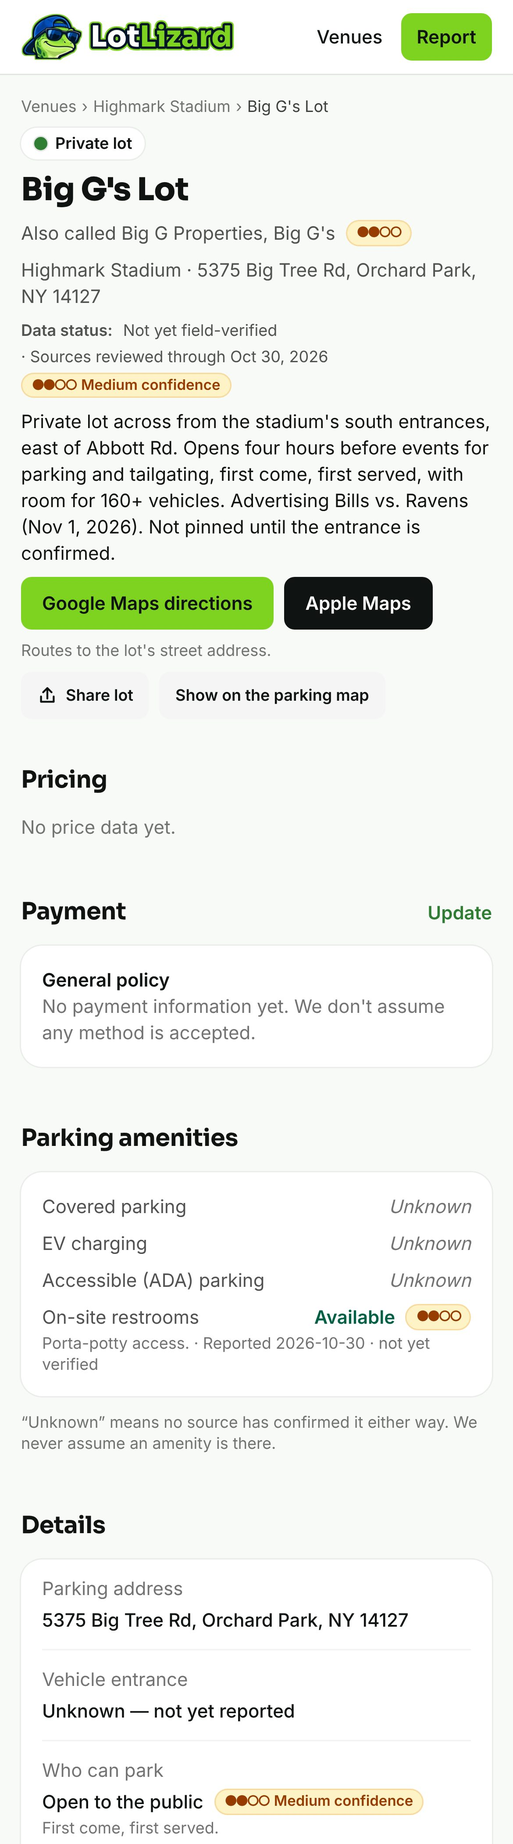
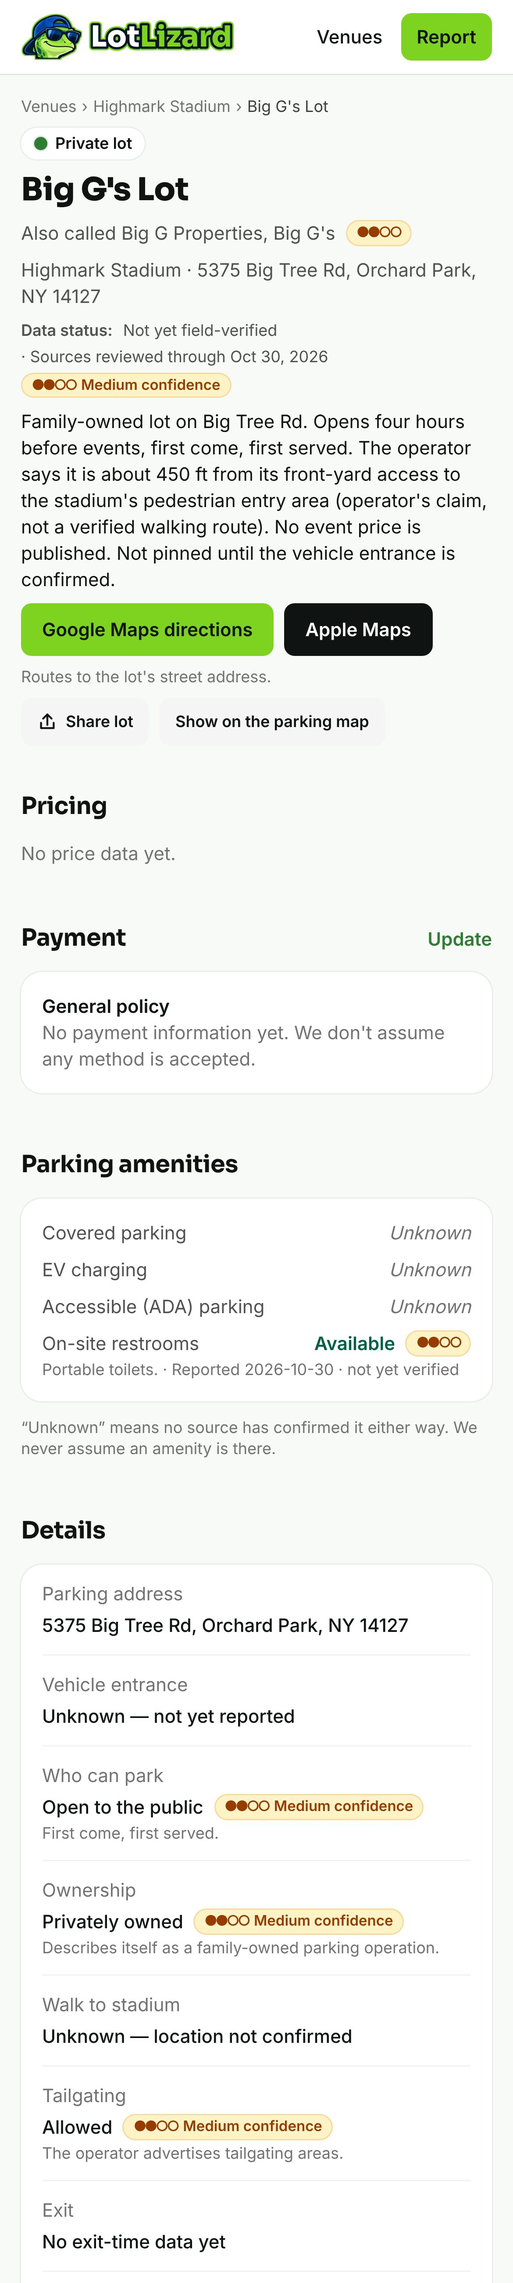
Verify Yellow Brick and Big G's from operator pages; drop unverified lots
Data-only. Yellow Brick (yellowbrickparkinglot.com home, /faq/, /about/)
and Big G Properties (biggpropertiesllc.com) were read directly on
2026-10-30; their sources are now marked as directly read operator claims.

- Yellow Brick: pass usable at any of its three lots for regular-size
  vehicles; RVs, oversized and overnight use Lot 2 (5241 Big Tree Rd);
  day-before arrivals 9 AM-4 PM; lots open 4 hours before events;
  guaranteed reservations, mobile or printed passes, sales final;
  tailgating rules; portable toilets; no EV charging or RV hookups;
  operator's 5-10 minute walk estimate labelled as such; "starting at $70"
  for Nov 1 kept as an event-level, not lot-specific, price. The 5265
  listing is renamed "Yellow Brick Parking" since the operator doesn't say
  which lot number that address is.
- Big G's: family-owned, first come first served, opens 4 hours before
  events, tailgating areas, portable toilets, lighting, two exit lanes
  turning right toward eastbound traffic and Route 219 (operator's claim),
  450 ft to the pedestrian entry area attributed to the operator. Dropped
  the snippet-only food truck and capacity claims.
- Removed from the public inventory and moved to the research list:
  Yellow Brick Lot 3 (5242 not established as Lot 3), Big Tree Lot (4297
  Abbott Rd; destination page only) and Bills Parking (5122 Big Tree Rd;
  Facebook page not retrievable).

Claude-Session: https://claude.ai/code/session_01Ro1oZBsP3w8Dk9SA5hbmnK

diff --git a/src/lib/data/facilities/highmark.ts b/src/lib/data/facilities/highmark.ts
@@ -93,8 +93,20 @@ function officialLot(
 }
 
 const YELLOW_BRICK_BOOKING = { url: "https://yellowbrickparkinglot.com/", partner: "Yellow Brick Parking", isAffiliate: false };
+const YELLOW_BRICK_PAYMENT: PaymentPolicy = {
+  accepted: [],
+  reportedAt: "2026-10-30",
+  notes: "Guaranteed reservations through the operator; mobile or printed passes accepted. All sales are final and nonrefundable. Accepted payment methods and on-arrival sales aren't stated.",
+  attribution: attr("medium", ["yellowbrick-faq", "yellowbrick-site"]),
+};
+const YELLOW_BRICK_FEATURES: ParkingFacility["features"] = {
+  restrooms: { state: "available", reportedAt: "2026-10-30", notes: "Portable toilets in all three lots.", attribution: attr("medium", ["yellowbrick-faq"]) },
+  ev_charging: { state: "unavailable", reportedAt: "2026-10-30", notes: "The operator says there is no EV charging.", attribution: attr("medium", ["yellowbrick-faq"]) },
+};
+const YELLOW_BRICK_TAILGATE = fact<boolean | "unknown">(true, "medium", ["yellowbrick-faq"], "Tailgating permitted within the operator's space restrictions.");
+const YELLOW_BRICK_TAILGATE_RULES = "Small grills, tables and chairs allowed. No ground fires, fireworks, loud music or karaoke (operator rules).";
 
-/** The operator's advertised starting price, shared by its three lots (not lot-specific). */
+/** The operator's advertised "starting at" price for one event, across its lots (not a lot-specific price). */
 function yellowBrickRavens(lot: string): PriceObservation {
   return {
     id: `${lot}-2026-11-01-from`,
@@ -104,7 +116,7 @@ function yellowBrickRavens(lot: string): PriceObservation {
     eventKind: "nfl_regular",
     season: "2026",
     observedAt: "2026-10-30",
-    paymentNotes: "Advertised as \"starting at $70\" for Bills vs. Ravens (Nov 1, 2026), reserved on the operator's website.",
+    paymentNotes: "Advertised as \"starting at $70\" for Bills vs. Ravens (Nov 1, 2026); reserved through the operator. Prices for other events and specific lots aren't published.",
     scope: "area",
     attribution: attr("medium", ["yellowbrick-site"], "Operator's starting price across its lots for one game; not specific to this lot."),
   };
@@ -382,24 +394,26 @@ export const HIGHMARK_FACILITIES: ParkingFacility[] = [
     id: "highmark-yellow-brick",
     slug: "yellow-brick-parking",
     venueId: VENUE_ID,
-    name: "Yellow Brick Parking “Lot 1”",
-    aliases: ["Lot 1", "Yellow Brick Parking", "Yellow Brick Lot 1"],
-    aliasesAttribution: attr("medium", ["yellowbrick-faq", "coparking-yellowbrick"], "The operator numbers its three Big Tree Rd lots 1–3."),
+    name: "Yellow Brick Parking",
+    aliases: ["Yellow Brick Parking Lot 1", "Yellow Brick Lot 1"],
+    aliasesAttribution: attr("low", ["coparking-yellowbrick"], "The operator runs three numbered lots; it doesn't say which number this address is. \"Lot 1\" comes from an aggregator listing."),
     type: "private_lot",
     operator: "Yellow Brick Parking",
     ownership: fact<Ownership>("private", "low", ["coparking-yellowbrick"], "Listed as a private lot by a parking aggregator."),
-    access: fact<AccessLevel>("public", "medium", ["yellowbrick-site", "yellowbrick-faq"], "Sells reserved spots for cars, RVs and limos to anyone; a booked spot is guaranteed at the price paid."),
+    access: fact<AccessLevel>("public", "medium", ["yellowbrick-site", "yellowbrick-faq"], "Regular-size vehicles with a valid Yellow Brick pass can use any of the three lots, subject to availability."),
     address: "5265 Big Tree Rd, Orchard Park, NY 14127",
     location: { lat: 42.7662, lng: -78.7812, precision: "approximate" },
     description:
-      "One of three Yellow Brick Parking lots side by side on Big Tree Rd (Route 20A), near the stadium's Drive 1 entrance. Spots can be reserved on the operator's website. The operator says its lots open four hours before the event.",
+      "The operator's main published address. Yellow Brick runs three adjacent lots on Big Tree Rd; a valid pass works in any of them for regular-size vehicles, subject to availability (RVs, oversized vehicles and overnight parking use Lot 2). Lots open four hours before events. The operator estimates a 5–10 minute walk to the stadium (operator's estimate, not measured by LotLizard).",
     prices: [yellowBrickRavens("yellow-brick-lot-1")],
-    amenities: fact<ParkingFacility["amenities"]["value"]>([], "unverified", ["lotlizard-editorial"]),
-    tailgating: { allowed: fact<boolean | "unknown">("unknown", "unverified", ["lotlizard-editorial"]) },
+    payment: YELLOW_BRICK_PAYMENT,
+    amenities: fact<ParkingFacility["amenities"]["value"]>(["tailgate_area"], "medium", ["yellowbrick-faq"], "Tailgating within the space you park in."),
+    features: YELLOW_BRICK_FEATURES,
+    tailgating: { allowed: YELLOW_BRICK_TAILGATE, notes: YELLOW_BRICK_TAILGATE_RULES },
     exit: { routes: ["Big Tree Rd eastbound to Route 219 (one-way post-game)"] },
     vehicleTypes: ["car"],
     booking: YELLOW_BRICK_BOOKING,
-    attribution: attr("medium", ["yellowbrick-site", "yellowbrick-faq", "facebook-yellowbrick", "coparking-yellowbrick"], `Operator's own website and Facebook page. ${PIN_NOTE}`),
+    attribution: attr("medium", ["yellowbrick-site", "yellowbrick-faq", "yellowbrick-about"], `Operator's own website (home, FAQ and About pages). ${PIN_NOTE}`),
   },
   {
     id: "highmark-dannys-south",
@@ -438,25 +452,28 @@ export const HIGHMARK_FACILITIES: ParkingFacility[] = [
     aliasesAttribution: attr("medium", ["bigg-site"], "Names used on the operator's website."),
     type: "private_lot",
     operator: "Big G Properties",
-    ownership: fact<Ownership>("private", "low", ["bigg-site"], "Privately run, per its own website; property ownership not independently confirmed."),
+    ownership: fact<Ownership>("private", "medium", ["bigg-site"], "Describes itself as a family-owned parking operation."),
     access: fact<AccessLevel>("public", "medium", ["bigg-site"], "First come, first served."),
     address: "5375 Big Tree Rd, Orchard Park, NY 14127",
     description:
-      "Private lot across from the stadium's south entrances, east of Abbott Rd. Opens four hours before events for parking and tailgating, first come, first served, with room for 160+ vehicles. Advertising Bills vs. Ravens (Nov 1, 2026). Not pinned until the entrance is confirmed.",
+      "Family-owned lot on Big Tree Rd. Opens four hours before events, first come, first served. The operator says it is about 450 ft from its front-yard access to the stadium's pedestrian entry area (operator's claim, not a verified walking route). No event price is published. Not pinned until the vehicle entrance is confirmed.",
     prices: [],
-    amenities: fact<ParkingFacility["amenities"]["value"]>(["tailgate_area", "food_vendors"], "medium", ["bigg-site"], "Tailgate zones and a BBQ food truck, per the operator."),
+    amenities: fact<ParkingFacility["amenities"]["value"]>(["tailgate_area", "lighting"], "medium", ["bigg-site"], "Tailgating areas and lighting, per the operator."),
     features: {
       restrooms: {
         state: "available",
         reportedAt: "2026-10-30",
-        notes: "Porta-potty access.",
+        notes: "Portable toilets.",
         attribution: attr("medium", ["bigg-site"]),
       },
     },
-    tailgating: { allowed: fact<boolean | "unknown">(true, "medium", ["bigg-site"], "The operator advertises parking and tailgating from four hours before events.") },
-    exit: {},
+    tailgating: { allowed: fact<boolean | "unknown">(true, "medium", ["bigg-site"], "The operator advertises tailgating areas.") },
+    exit: {
+      routes: ["Two exit lanes turning right toward eastbound traffic and Route 219 (per the operator)"],
+      notes: "Exit layout as advertised by the operator; not observed by LotLizard. No exit-time data.",
+    },
     vehicleTypes: ["car"],
-    attribution: attr("medium", ["bigg-site", "bigg-ravens"], "Operator's own website, including a 2026 game page. Address from the operator's website."),
+    attribution: attr("medium", ["bigg-site"], "Operator's own website. Address from the operator."),
   },
   {
     id: "highmark-yellow-brick-lot-2",
@@ -464,78 +481,21 @@ export const HIGHMARK_FACILITIES: ParkingFacility[] = [
     venueId: VENUE_ID,
     name: "Yellow Brick Parking “Lot 2”",
     aliases: ["Yellow Brick Lot 2"],
-    aliasesAttribution: attr("medium", ["yellowbrick-faq", "coparking-yellowbrick-lot2"], "The operator numbers its three Big Tree Rd lots 1–3."),
+    aliasesAttribution: attr("medium", ["yellowbrick-faq"], "Lot number and address given in the operator's FAQ."),
     type: "private_lot",
     operator: "Yellow Brick Parking",
-    access: fact<AccessLevel>("public", "medium", ["yellowbrick-site", "yellowbrick-faq"], "Sells reserved spots for cars, RVs and limos to anyone; a booked spot is guaranteed at the price paid."),
+    access: fact<AccessLevel>("public", "medium", ["yellowbrick-site", "yellowbrick-faq"], "Valid Yellow Brick pass required; RVs, oversized vehicles and overnight parking must use this lot."),
     address: "5241 Big Tree Rd, Orchard Park, NY 14127",
     description:
-      "One of three Yellow Brick Parking lots side by side on Big Tree Rd (Route 20A). The operator sends RVs and overnight arrivals the day before an event to this lot. Spots can be reserved on the operator's website. Not pinned until the entrance is confirmed.",
+      "One of three adjacent Yellow Brick Parking lots on Big Tree Rd, and the one RVs, oversized vehicles and overnight parking must use. Overnight and RV arrivals the day before must arrive between 9 AM and 4 PM. No RV electric or water hookups. Lots open four hours before events. Not pinned until the entrance is confirmed.",
     prices: [yellowBrickRavens("yellow-brick-lot-2")],
-    amenities: fact<ParkingFacility["amenities"]["value"]>(["rv_friendly"], "medium", ["yellowbrick-faq"], "Designated for RV and overnight arrivals the day before an event."),
-    tailgating: { allowed: fact<boolean | "unknown">("unknown", "unverified", ["lotlizard-editorial"]) },
+    payment: YELLOW_BRICK_PAYMENT,
+    amenities: fact<ParkingFacility["amenities"]["value"]>(["rv_friendly", "tailgate_area"], "medium", ["yellowbrick-faq"], "The operator's designated RV and oversized-vehicle lot; no electric or water hookups."),
+    features: YELLOW_BRICK_FEATURES,
+    tailgating: { allowed: YELLOW_BRICK_TAILGATE, notes: YELLOW_BRICK_TAILGATE_RULES },
     exit: {},
-    vehicleTypes: ["car", "rv", "limo"],
+    vehicleTypes: ["car", "rv"],
     booking: YELLOW_BRICK_BOOKING,
-    attribution: attr("medium", ["yellowbrick-faq", "yellowbrick-site", "coparking-yellowbrick-lot2"], "Address from the operator's FAQ."),
-  },
-  {
-    id: "highmark-yellow-brick-lot-3",
-    slug: "yellow-brick-parking-lot-3",
-    venueId: VENUE_ID,
-    name: "Yellow Brick Parking “Lot 3”",
-    aliases: ["Yellow Brick Lot 3"],
-    aliasesAttribution: attr("low", ["parkwhiz-yellowbrick-lot3"], "Lot name on a booking-platform listing."),
-    type: "private_lot",
-    operator: "Yellow Brick Parking",
-    access: fact<AccessLevel>("public", "medium", ["yellowbrick-site", "yellowbrick-faq"], "Sells reserved spots for cars, RVs and limos to anyone; a booked spot is guaranteed at the price paid."),
-    address: "5242 Big Tree Rd, Orchard Park, NY 14127",
-    description:
-      "The third of Yellow Brick Parking's lots on Big Tree Rd, listed as uncovered self-park event parking. Spots can be reserved on the operator's website or booking apps. Not pinned until the entrance is confirmed.",
-    prices: [yellowBrickRavens("yellow-brick-lot-3")],
-    amenities: fact<ParkingFacility["amenities"]["value"]>([], "unverified", ["lotlizard-editorial"]),
-    tailgating: { allowed: fact<boolean | "unknown">("unknown", "unverified", ["lotlizard-editorial"]) },
-    exit: {},
-    vehicleTypes: ["car"],
-    booking: YELLOW_BRICK_BOOKING,
-    attribution: attr("low", ["parkwhiz-yellowbrick-lot3", "spothero-5242", "yellowbrick-faq"], "The operator says it runs three lots; this lot's address comes from booking-platform listings only."),
-  },
-  {
-    id: "highmark-big-tree-lot",
-    slug: "big-tree-lot",
-    venueId: VENUE_ID,
-    name: "Big Tree Lot",
-    aliases: ["Premium Parking P8135", "4297 Abbott Road Parking"],
-    aliasesAttribution: attr("low", ["mapquest-bigtreelot", "spothero-4297"], "Names on map and booking listings."),
-    type: "private_lot",
-    operator: "Premium Parking",
-    access: fact<AccessLevel>("public", "low", ["spothero-4297", "parkme-4297"], "Bookable by anyone on SpotHero; listed as event-only parking."),
-    address: "4297 Abbott Rd, Orchard Park, NY 14127",
-    description:
-      "Surface lot on Abbott Rd listed as Premium Parking lot P8135 and bookable in advance on SpotHero for Bills games. Listings disagree on capacity (150 or 200 spaces). No price found yet. Not pinned until the entrance is confirmed.",
-    prices: [],
-    amenities: fact<ParkingFacility["amenities"]["value"]>([], "unverified", ["lotlizard-editorial"]),
-    tailgating: { allowed: fact<boolean | "unknown">("unknown", "unverified", ["lotlizard-editorial"]) },
-    exit: {},
-    vehicleTypes: ["car"],
-    booking: { url: "https://spothero.com/destination/buffalo/4297-abbott-road-parking", partner: "SpotHero", isAffiliate: false },
-    attribution: attr("low", ["spothero-4297", "parkme-4297", "mapquest-bigtreelot"], "Booking and map listings only; no operator page reviewed."),
-  },
-  {
-    id: "highmark-bills-parking-5122",
-    slug: "bills-parking-big-tree-rd",
-    venueId: VENUE_ID,
-    name: "Bills Parking (5122 Big Tree Rd)",
-    type: "private_lot",
-    ownership: fact<Ownership>("private", "low", ["facebook-billsparking"], "Describes itself as a private parking lot on its own Facebook page."),
-    address: "5122 Big Tree Rd, Orchard Park, NY 14127",
-    description:
-      "Private lot on Big Tree Rd advertised on its own Facebook page for people attending Bills games, a short walk to the new stadium. No price or hours found yet. Not pinned until the entrance is confirmed.",
-    prices: [],
-    amenities: fact<ParkingFacility["amenities"]["value"]>([], "unverified", ["lotlizard-editorial"]),
-    tailgating: { allowed: fact<boolean | "unknown">("unknown", "unverified", ["lotlizard-editorial"]) },
-    exit: {},
-    vehicleTypes: ["car"],
-    attribution: attr("low", ["facebook-billsparking"], "Operator's own Facebook page only."),
+    attribution: attr("medium", ["yellowbrick-faq", "yellowbrick-site", "yellowbrick-about"], "Address from the operator's FAQ."),
   },
 ];

diff --git a/src/lib/data/sources.ts b/src/lib/data/sources.ts
@@ -7,6 +7,7 @@ import type { DataSource } from "@/lib/types";
  */
 const SNIPPET = "Reviewed via search results 2026-10-29; direct page re-check pending.";
 const SNIPPET_1030 = "Reviewed via search results 2026-10-30; direct page re-check pending.";
+const DIRECT_1030 = "Page read directly 2026-10-30. Operator's own claims; not field-verified by LotLizard.";
 
 export const SOURCES: DataSource[] = [
   // Official
@@ -44,19 +45,11 @@ export const SOURCES: DataSource[] = [
   { id: "coparking-yellowbrick", type: "third_party", name: "CoParking listing — Yellow Brick Parking", url: "https://coparking.ch/en/United-States/parking/73055", retrievedAt: "2026-10-29" },
   { id: "facebook-gorilla", type: "operator", name: "Gorilla Parking (4177 Abbott Rd) — Facebook page", url: "https://www.facebook.com/4177AbbottRoad/", retrievedAt: "2026-10-29" },
 
-  // Private lots (2026-10-30 research). Operator pages count as the lot's own public advertising.
-  { id: "bigg-site", type: "operator", name: "Big G Properties — Big G's Lot", url: "https://www.biggpropertiesllc.com/", retrievedAt: "2026-10-30", notes: SNIPPET_1030 },
-  { id: "bigg-ravens", type: "operator", name: "Big G Properties — Bills vs. Ravens parking (Nov 1, 2026)", url: "https://www.biggpropertiesllc.com/event-details-registration/bills-vs-ravens-parking", retrievedAt: "2026-10-30", notes: SNIPPET_1030 },
-  { id: "yellowbrick-site", type: "operator", name: "Yellow Brick Parking — Highmark Stadium parking", url: "https://yellowbrickparkinglot.com/", retrievedAt: "2026-10-30", notes: SNIPPET_1030 },
-  { id: "yellowbrick-faq", type: "operator", name: "Yellow Brick Parking — FAQ", url: "https://yellowbrickparkinglot.com/faq/", retrievedAt: "2026-10-30", notes: SNIPPET_1030 },
-  { id: "facebook-yellowbrick", type: "operator", name: "Yellow Brick Parking — Facebook page", url: "https://www.facebook.com/yellowbrickparking/", retrievedAt: "2026-10-30", notes: SNIPPET_1030 },
-  { id: "coparking-yellowbrick-lot2", type: "third_party", name: "CoParking listing — Yellow Brick Parking Lot 2", url: "https://coparking.ch/en/United-States/parking/73064", retrievedAt: "2026-10-30", notes: SNIPPET_1030 },
-  { id: "parkwhiz-yellowbrick-lot3", type: "third_party", name: "ParkWhiz — Yellow Brick Parking Lot 3, 5242 Big Tree Road (event listing, June 2026)", url: "https://www.parkwhiz.ca/checkout?quote_id=047fdc01-92b9-4a47-b859-57e502d9e01a", retrievedAt: "2026-10-30", notes: SNIPPET_1030 },
-  { id: "spothero-5242", type: "third_party", name: "SpotHero — 5242 Big Tree Road parking", url: "https://spothero.com/destination/buffalo/5242-big-tree-road-parking", retrievedAt: "2026-10-30", notes: SNIPPET_1030 },
-  { id: "spothero-4297", type: "third_party", name: "SpotHero — 4297 Abbott Road parking", url: "https://spothero.com/destination/buffalo/4297-abbott-road-parking", retrievedAt: "2026-10-30", notes: SNIPPET_1030 },
-  { id: "parkme-4297", type: "third_party", name: "ParkMe — Big Tree Lot, 4297 Abbott Rd", url: "https://www.parkme.com/lot/1230346/4297-abbott-rd", retrievedAt: "2026-10-30", notes: SNIPPET_1030 },
-  { id: "mapquest-bigtreelot", type: "third_party", name: "MapQuest — Big Tree Lot (Premium Parking Lot P8135)", url: "https://www.mapquest.com/us/new-york/big-tree-lot-premium-parking-lot-p8135-753842619", retrievedAt: "2026-10-30", notes: SNIPPET_1030 },
-  { id: "facebook-billsparking", type: "operator", name: "Bills Parking (5122 Big Tree Rd) — Facebook page", url: "https://www.facebook.com/billsparking/", retrievedAt: "2026-10-30", notes: SNIPPET_1030 },
+  // Private lots (2026-10-30). Operator pages count as the lot's own public advertising.
+  { id: "bigg-site", type: "operator", name: "Big G Properties — Big G's Lot", url: "https://www.biggpropertiesllc.com/", retrievedAt: "2026-10-30", notes: DIRECT_1030 },
+  { id: "yellowbrick-site", type: "operator", name: "Yellow Brick Parking — Highmark Stadium parking", url: "https://yellowbrickparkinglot.com/", retrievedAt: "2026-10-30", notes: DIRECT_1030 },
+  { id: "yellowbrick-faq", type: "operator", name: "Yellow Brick Parking — FAQ", url: "https://yellowbrickparkinglot.com/faq/", retrievedAt: "2026-10-30", notes: DIRECT_1030 },
+  { id: "yellowbrick-about", type: "operator", name: "Yellow Brick Parking — About", url: "https://yellowbrickparkinglot.com/about/", retrievedAt: "2026-10-30", notes: DIRECT_1030 },
   { id: "gorilla-site", type: "operator", name: "Gorilla Lot — website", url: "https://www.gorillalotparking.com/", retrievedAt: "2026-10-30", notes: SNIPPET_1030 },
   { id: "billsfans-tailgating", type: "third_party", name: "BillsFans — Bills Mafia tailgating guide", url: "https://www.billsfans.com/the-ultimate-buffalo-bills-game-day-guide/tailgating/", retrievedAt: "2026-10-30", notes: SNIPPET_1030 },
   { id: "dannys-site", type: "operator", name: "Danny's South — restaurant website", url: "https://www.dannysrestaurant.com/dannys-south/", retrievedAt: "2026-10-30", notes: SNIPPET_1030 },

diff --git a/src/lib/features.test.ts b/src/lib/features.test.ts
@@ -95,17 +95,25 @@ describe("amenity filtering keeps map, list and rankings in sync", () => {
 describe("Highmark universal amenity data", () => {
   const slugs = (features: UniversalAmenity[]) => run(HIGHMARK_FACILITIES, features).visible.map((f) => f.slug).sort();
 
-  it("claims only what a source confirms: ADA at the two ADA lots, restrooms at Big G's Lot, nothing else", () => {
+  it("claims only what a source confirms: ADA at the ADA lots, restrooms and no EV charging at the operator-documented private lots", () => {
     const claims = HIGHMARK_FACILITIES.flatMap((f) =>
       UNIVERSAL_AMENITIES.filter((k) => featureState(f, k) !== "unknown").map((k) => `${f.slug}:${k}:${featureState(f, k)}`),
     );
-    expect(claims.sort()).toEqual(["big-g-lot:restrooms:available", "blue-ada-lot:ada:available", "white-ada-lot:ada:available"]);
+    expect(claims.sort()).toEqual([
+      "big-g-lot:restrooms:available",
+      "blue-ada-lot:ada:available",
+      "white-ada-lot:ada:available",
+      "yellow-brick-parking-lot-2:ev_charging:unavailable",
+      "yellow-brick-parking-lot-2:restrooms:available",
+      "yellow-brick-parking:ev_charging:unavailable",
+      "yellow-brick-parking:restrooms:available",
+    ]);
   });
 
-  it("returns only confirmed lots: none for covered parking or EV charging, Big G's for restrooms", () => {
+  it("returns only confirmed lots: none for covered parking or EV charging, operator-documented lots for restrooms", () => {
     expect(slugs(["covered"])).toEqual([]);
     expect(slugs(["ev_charging"])).toEqual([]);
-    expect(slugs(["restrooms"])).toEqual(["big-g-lot"]);
+    expect(slugs(["restrooms"])).toEqual(["big-g-lot", "yellow-brick-parking", "yellow-brick-parking-lot-2"]);
     expect(slugs(["ada"])).toEqual(["blue-ada-lot", "white-ada-lot"]);
   });
 

diff --git a/src/lib/data/data-integrity.test.ts b/src/lib/data/data-integrity.test.ts
@@ -44,17 +44,14 @@ describe("Highmark private lots", () => {
   const privateLots = HIGHMARK_FACILITIES.filter((f) => f.type === "private_lot");
   const sourceType = new Map(SOURCES.map((s) => [s.id, s.type]));
 
-  it("lists the nine published private lots", () => {
+  it("lists the six published private lots", () => {
     expect(privateLots.map((f) => f.slug).sort()).toEqual([
       "big-g-lot",
-      "big-tree-lot",
-      "bills-parking-big-tree-rd",
       "dannys-south",
       "gorilla-parking",
       "hammers-lot",
       "yellow-brick-parking",
       "yellow-brick-parking-lot-2",
-      "yellow-brick-parking-lot-3",
     ]);
   });
 
@@ -71,14 +68,15 @@ describe("Highmark private lots", () => {
   });
 
   it("doesn't pin, rate the exit of, or invent a lot-level price for the lots added from 2026-10-30 research", () => {
-    for (const slug of ["big-g-lot", "yellow-brick-parking-lot-2", "yellow-brick-parking-lot-3", "big-tree-lot", "bills-parking-big-tree-rd"]) {
+    for (const slug of ["big-g-lot", "yellow-brick-parking-lot-2"]) {
       const f = HIGHMARK_FACILITIES.find((x) => x.slug === slug)!;
       expect(f.location, slug).toBeUndefined();
       expect(f.entrance, slug).toBeUndefined();
-      expect(f.exit, slug).toEqual({});
+      expect(f.exit.rating, slug).toBeUndefined();
+      expect(f.exit.directions, slug).toBeUndefined();
+      expect(f.walkMinutes, slug).toBeUndefined();
       // Only the operator's own advertised starting price, marked as not lot-specific.
       for (const p of f.prices) expect(p.scope, slug).toBe("area");
     }
   });
 });
-

diff --git a/src/lib/access.test.ts b/src/lib/access.test.ts
@@ -221,8 +221,9 @@ describe("published ownership and access data", () => {
     // Bills-run ADA lots are venue-operated surface lots too.
     expect(visible("highmark-stadium", p({ access: ["pass_required"], owner: ["venue"], form: ["surface"] }))).toEqual(withAda);
     expect(visible("highmark-stadium", p({ owner: ["public"] }))).toEqual([]);
-    // Private lots are reported private and open, but not confirmed open, so they aren't a match yet.
-    expect(visible("highmark-stadium", p({ owner: ["private"], access: ["public"] }))).toEqual([]);
+    // Only Big G's Lot states on its own site that it's family-owned and first come, first served; other
+    // private lots are reported private but not confirmed, so they aren't a match yet.
+    expect(visible("highmark-stadium", p({ owner: ["private"], access: ["public"] }))).toEqual(["big-g-lot"]);
     expect(visible("highmark-stadium", p({ form: ["garage"] }))).toEqual([]);
     // Official passes are prepay-only (medium), so they're also "reservation required".
     expect(visible("highmark-stadium", p({ access: ["pass_required"], reservation: ["required"] }))).toEqual(officialPass);

diff --git a/docs/research/highmark-private-lots.md b/docs/research/highmark-private-lots.md
@@ -7,15 +7,19 @@ Research date: 2026-10-30. Everything here is **not published** on the site. A l
 Facebook page, or a booking-platform listing) **and** a specific street address. Prices, entrances,
 availability and exit details are recorded only when a source states them.
 
-**Method note:** direct page fetches were blocked from the research environment, so every source was
-reviewed through search-result excerpts. Each source in `src/lib/data/sources.ts` carries a note that
-a direct page re-check is still pending. No coordinates could be checked against a geocoder, so no new
-map pins were added.
+**Method note:** the research environment couldn't open most web pages. Operator pages for Yellow
+Brick (home, `/faq/`, `/about/`) and Big G Properties were read directly on 2026-10-30 and
+supplied for this update; those sources are marked "page read directly" in `src/lib/data/sources.ts`.
+Everything else was reviewed through search-result excerpts and is marked "direct page re-check
+pending". No coordinates or vehicle entrances could be verified, so no new map pins were added.
 
 ## Candidates needing verification
 
 | Candidate | Address | Road | What we found | What's missing |
 |---|---|---|---|---|
+| Yellow Brick Parking Lot 3 | 5242 Big Tree Rd? | Big Tree Rd | The operator's site confirms a third adjacent lot. A ParkWhiz listing (June 2026 event) and a SpotHero destination use 5242 Big Tree Rd. | The operator doesn't give Lot 3's address; 5242 isn't established as Lot 3. Pass holders can already use any of the three lots, so the published Yellow Brick listings mention it. |
+| Big Tree Lot / "Premium Parking P8135" | 4297 Abbott Rd | Abbott Rd | SpotHero destination page (https://spothero.com/destination/buffalo/4297-abbott-road-parking), ParkMe and MapQuest listings. | A destination page alone doesn't show an active, named operator, game-day booking or an entrance. Listings disagree on capacity (150 or 200). |
+| Bills Parking | 5122 Big Tree Rd | Big Tree Rd | A Facebook page (https://www.facebook.com/billsparking) seen in search results describes a private lot for Bills games. | The page couldn't be retrieved directly; nothing confirmed. |
 | Kane's ("Fort Erie Lot") | 3952 Southwestern Blvd | Southwestern Blvd | Fan blog (about 2025): $60, attended, bathrooms, cash only. Town Board records list a commercial parking permit at this address (2010, 2014). A parking LLC registered at this address in March 2026. | No 2026 advertising by the operator. |
 | Twin Oaks Motel | 3949 Southwestern Blvd | Southwestern Blvd | Fan blog (about 2025): $60, porta-potties, oversized vehicles, buses and campers. A "Twin Oak Parking" listing on ParkingRank. | No 2026 advertising; motel's link to the lot unconfirmed. |
 | Bert's Bikes & Fitness | 4050 Southwestern Blvd | Southwestern Blvd | Fan blog (about 2025): $60, $80 front row. Older guides and reviews describe game-day parking. | No 2026 advertising by the business. |
